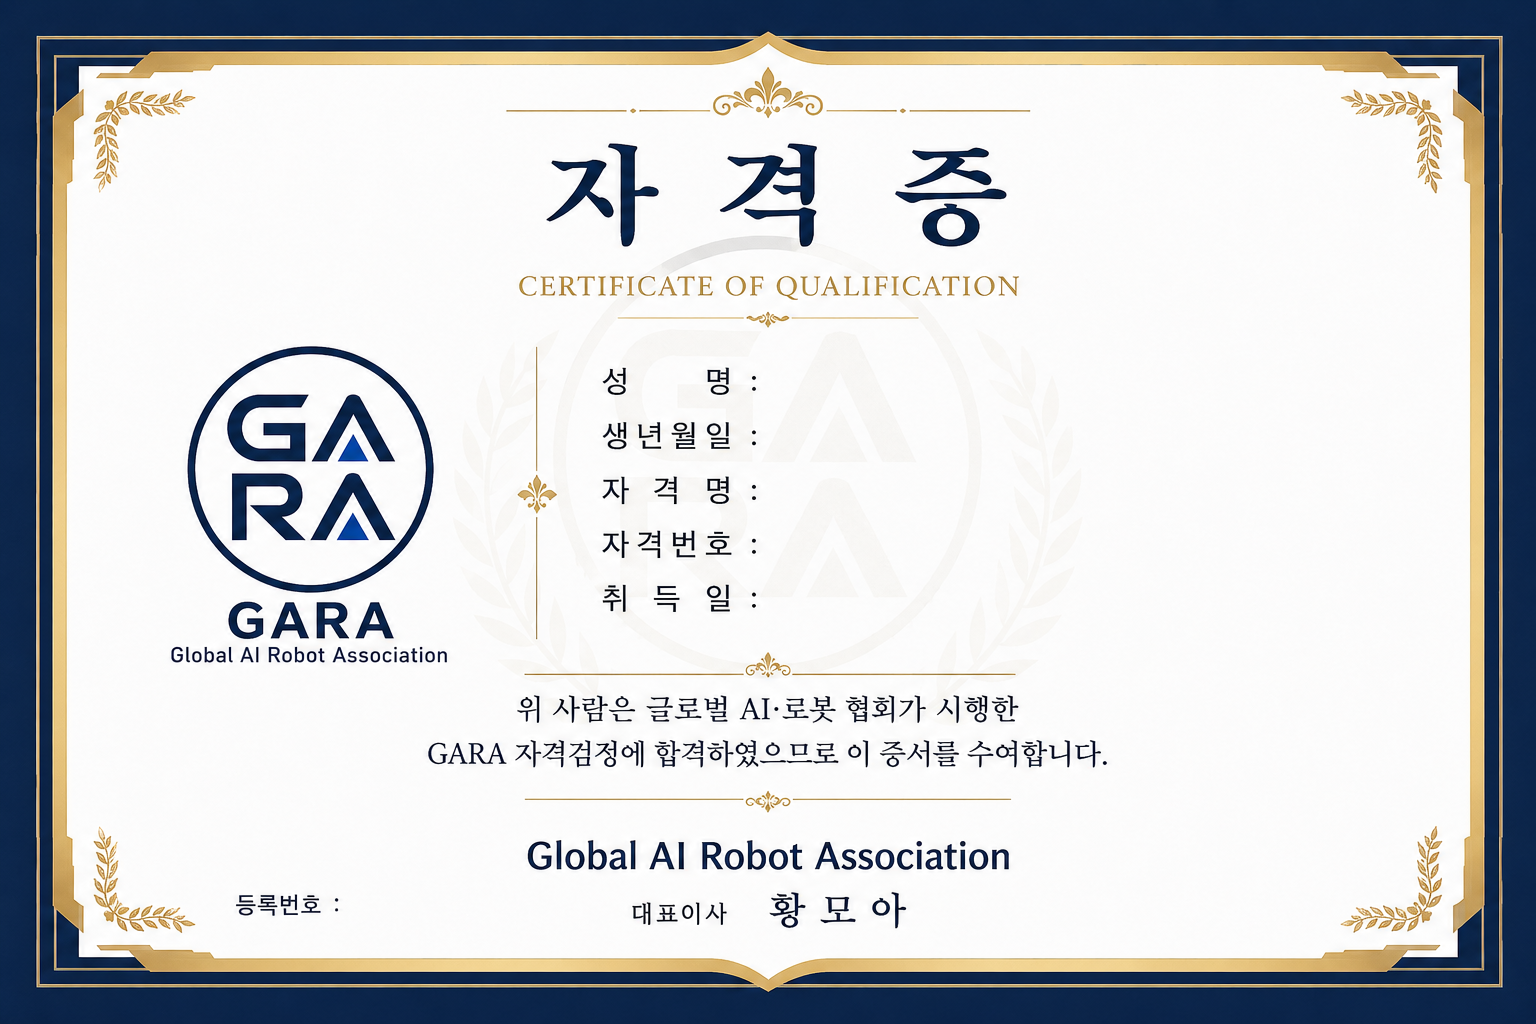
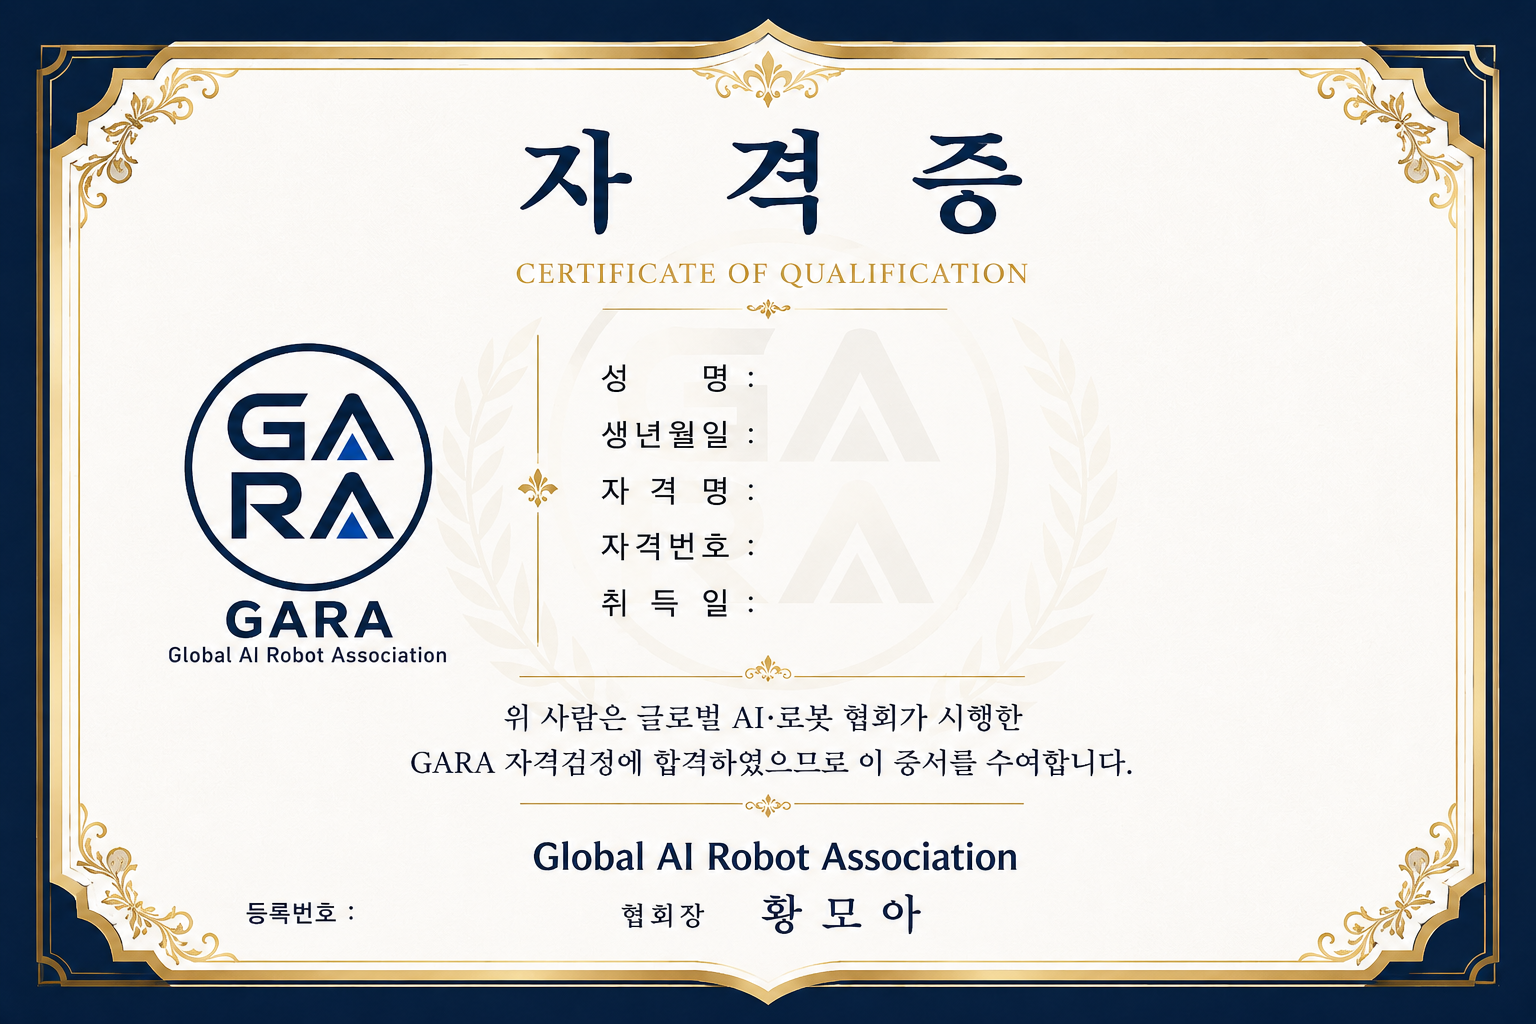
자격증 템플릿 이미지 교체 + 필드 위치 미세조정

diff --git a/src/pages/Certificate.tsx b/src/pages/Certificate.tsx
@@ -19,12 +19,12 @@ function todayStr() {
 // 템플릿 이미지(public/cert-template.png) 위 빈칸 좌표(% 기준 — 미세조정 쉬움).
 // top: 행의 세로 중심 %, left: 값 시작 가로 %, size: cqw(이미지폭 대비 %).
 const FIELDS = [
-  { key: 'name', top: 37.0, left: 55, size: 2.4 },
-  { key: 'birth', top: 42.3, left: 55, size: 2.0 },
-  { key: 'qual', top: 47.7, left: 55, size: 2.0 },
-  { key: 'no', top: 53.1, left: 55, size: 2.0 },
-  { key: 'date', top: 58.2, left: 55, size: 2.0 },
-  { key: 'reg', top: 91.0, left: 13, size: 1.6 },
+  { key: 'name', top: 36.7, left: 55, size: 2.4 },
+  { key: 'birth', top: 42.2, left: 55, size: 2.0 },
+  { key: 'qual', top: 48.1, left: 55, size: 2.0 },
+  { key: 'no', top: 53.8, left: 55, size: 2.0 },
+  { key: 'date', top: 59.4, left: 55, size: 2.0 },
+  { key: 'reg', top: 91.7, left: 17.5, size: 1.6 },
 ] as const
 
 export default function Certificate() {
